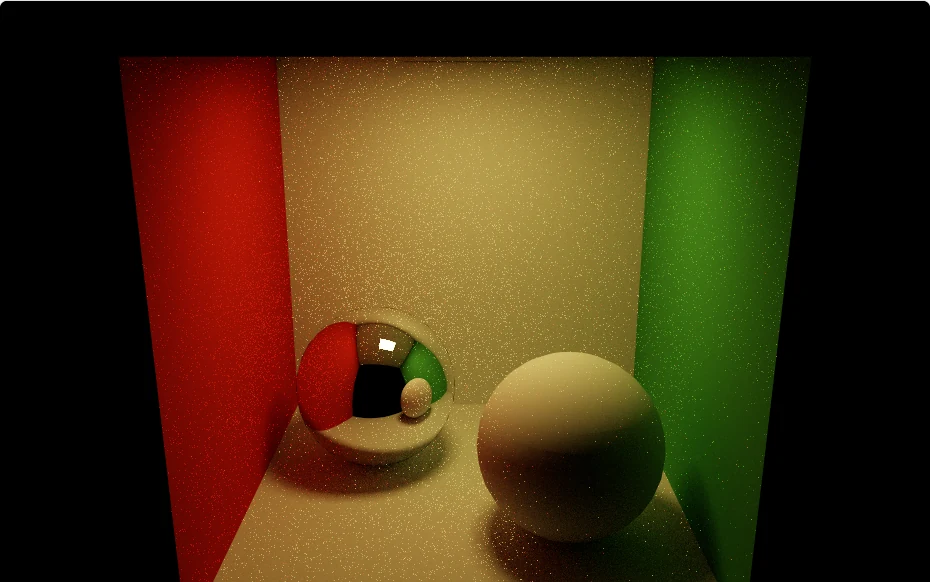
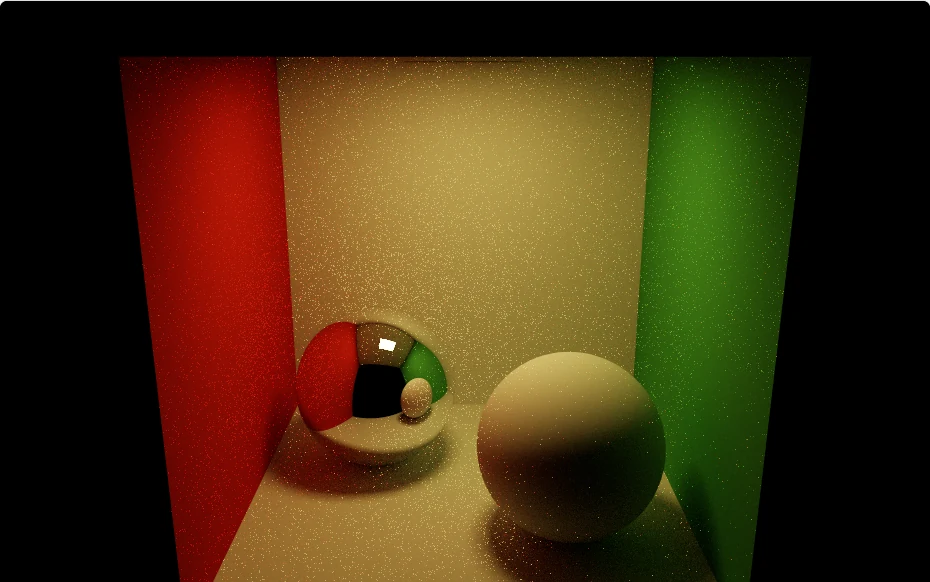
scene: tessellate the Cornell box spheres at 64 by 32
The mirror sphere looked unreal. At 32 by 16 segments it had a 32-sided
outline, and its facets bent the reflection into a lattice. The investigation
measured a normal error of median 0.6 deg, p99 5.4 deg and 23 deg at the rim.
The mirror sphere and the white ball are now SphereGeometry(0.4, 64, 32).
Nothing else in the scene changes.

Counts of ScenePack for createCornellBox(), before and after:
triangles 1,924 to 7,940, vertices 1,130 to 4,298, nodes 1,093 to 4,741 (the
TLAS 5 nodes in both). One sphere has 960 triangles and 543 BLAS nodes before,
3,968 triangles and 2,367 BLAS nodes after.

Goldens changed: cornell-box (mean 0.479/255 against the old golden) and
determinism (mean 0.533/255). Both build the box and show its spheres. The
difference is scattered single pixels, from paths that now hit other facets.
The other eight goldens stay at mean 0.000/255. scene-graph removes the box's
spheres, so its picture does not change.

Stills recaptured at 64 spp: cornell-box and determinism. The other stills
do not change.

The differential gate shares createCornellBox. On SwiftShader the mean is now
3.03e-7 (3.27e-7 before) and the largest difference 2.86e-6, with 0 channels
out of bounds. ORACLE.mean stays at 3.3e-6, and the comment in
scripts/gates.mjs says so.

Design: none, the scene
Claude-Session: https://claude.ai/code/session_01321KKPSXoNtSFw2xunX2nH

diff --git a/packages/addons/src/scenes/CornellBox.ts b/packages/addons/src/scenes/CornellBox.ts
@@ -27,8 +27,10 @@ export interface CornellBox {
  * looks in through the open side.
  *
  * Every shape is triangles: the walls and the light are planes of two triangles each, and each
- * sphere is a `SphereGeometry` of three.js's default 32 by 16 segments, 960 triangles. It is the
- * scene CI renders on the GPU and on the CPU oracle (design record 0002).
+ * sphere is a `SphereGeometry` of 64 by 32 segments, 3,968 triangles. The segments are twice
+ * three.js's default of 32 by 16, so that the outline of the mirror sphere has 64 sides and each
+ * edge of its facets bends the reflection less. The scene holds 7,940 triangles. It is the scene
+ * CI renders on the GPU and on the CPU oracle (design record 0002).
  */
 export function createCornellBox(): CornellBox {
   const scene = new Scene();
@@ -56,9 +58,9 @@ export function createCornellBox(): CornellBox {
   lamp.position.set(0, 1.98, 0);
   lamp.rotation.x = Math.PI / 2;
 
-  const mirror = new Mesh(new SphereGeometry(0.4), new MirrorMaterial());
+  const mirror = new Mesh(new SphereGeometry(0.4, 64, 32), new MirrorMaterial());
   mirror.position.set(-0.45, 0.4, -0.35);
-  const ball = new Mesh(new SphereGeometry(0.4), white);
+  const ball = new Mesh(new SphereGeometry(0.4, 64, 32), white);
   ball.position.set(0.45, 0.4, 0.3);
 
   scene.add(floor, ceiling, back, left, right, lamp, mirror, ball);
